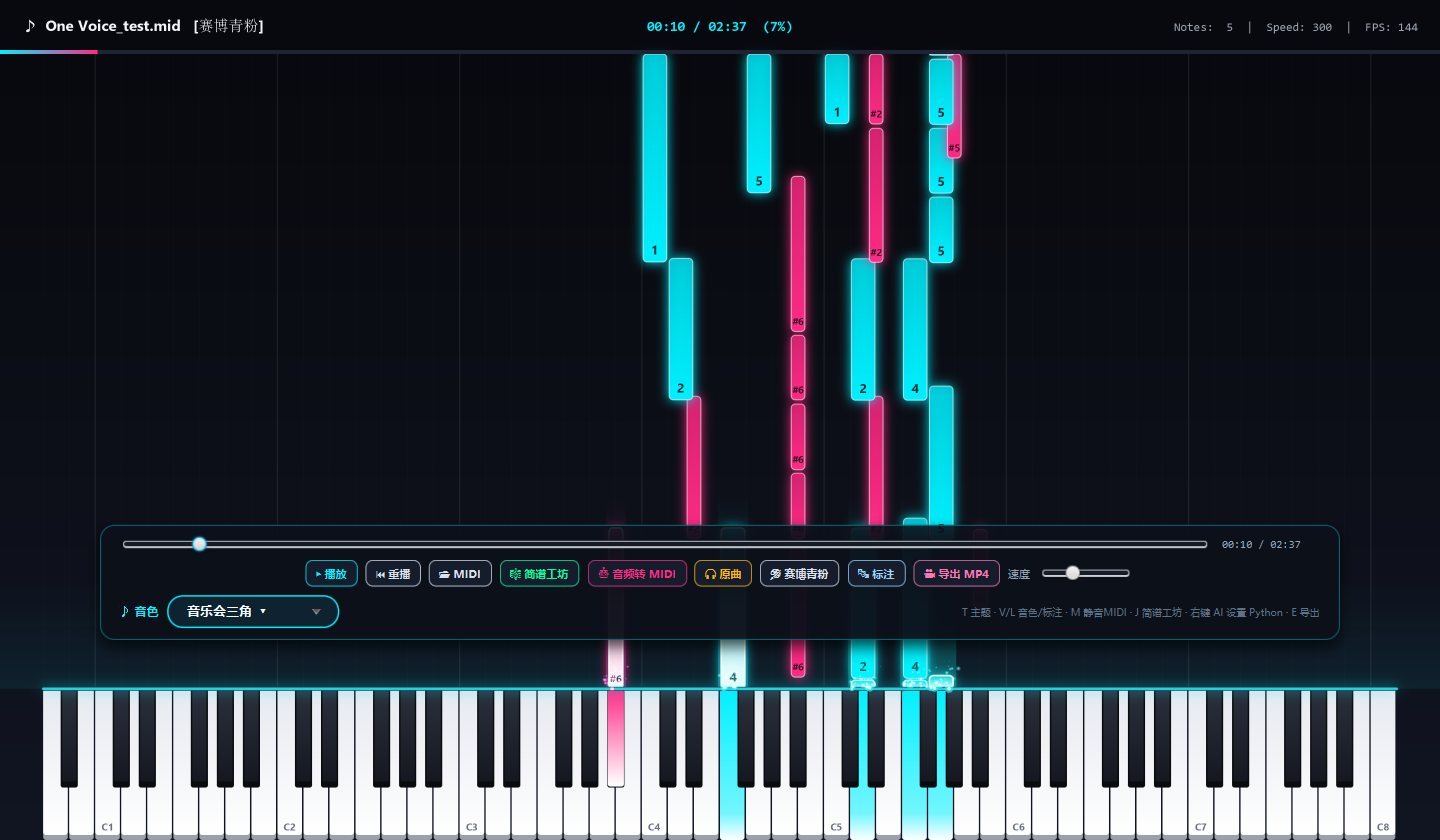
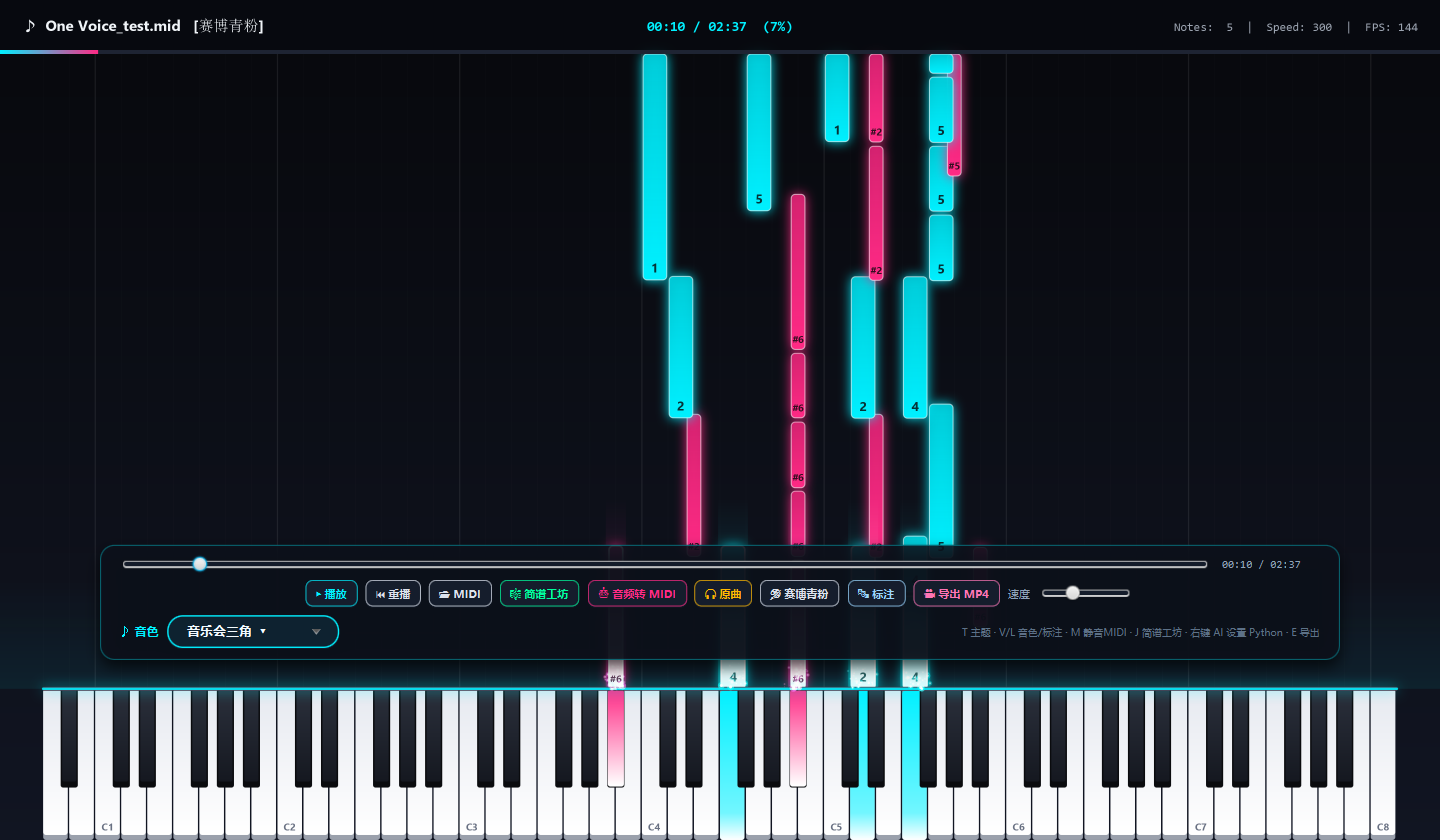
ui: final dock offset 180px (1.3.3)

diff --git a/src/main/java/com/piano/waterfall/App.java b/src/main/java/com/piano/waterfall/App.java
@@ -140,7 +140,7 @@ public class App extends Application {
 
         dock = buildFloatingDock();
         StackPane.setAlignment(dock, Pos.BOTTOM_CENTER);
-        StackPane.setMargin(dock, new Insets(0, 40, 200, 40));
+        StackPane.setMargin(dock, new Insets(0, 40, 180, 40));
 
         root = new StackPane(canvas, dock);
         root.setStyle("-fx-background-color: #07090E;");
@@ -332,7 +332,7 @@ public class App extends Application {
         voiceCombo = new ComboBox<>(FXCollections.observableArrayList(PianoVoice.values()));
         voiceCombo.setValue(PianoVoice.GRAND);
         voiceCombo.setPrefWidth(172);
-        voiceCombo.setVisibleRowCount(4);
+        voiceCombo.setVisibleRowCount(3);
         voiceCombo.setPrefHeight(32);
         voiceCombo.setStyle("-fx-background-color: #0E2230; -fx-text-fill: #EAF6FF;"
                 + " -fx-border-color: #00F0FF; -fx-border-width: 1.4;"
